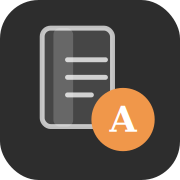
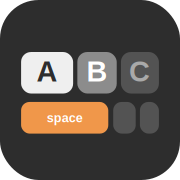
Add files via upload

diff --git a/index.html b/index.html
@@ -44,7 +44,7 @@ html, body { height: 100%; background: var(--bg); font-family: var(--font); colo
 
 /* ── 헤더 (항상 고정) ── */
 .hd {
-  padding: 14px 16px 0;
+  padding: 14px 16px 14px;
   flex-shrink: 0;
   position: sticky;
   top: 0;
@@ -398,14 +398,18 @@ html, body { height: 100%; background: var(--bg); font-family: var(--font); colo
   <div class="hd" id="hd">
     <div class="hd-main-row" onclick="navigate('units')" style="cursor:pointer">
       <div class="hd-icon-wrap">
-        <svg width="22" height="22" viewBox="0 0 22 22" fill="none">
-          <rect x="3" y="2" width="12" height="18" rx="1.5" fill="rgba(255,255,255,0.2)" stroke="rgba(255,255,255,0.8)" stroke-width="1.2"/>
-          <rect x="5" y="2" width="3" height="18" rx="1" fill="rgba(255,255,255,0.25)"/>
-          <line x1="7.5" y1="7" x2="13" y2="7" stroke="rgba(255,255,255,0.85)" stroke-width="1.1" stroke-linecap="round"/>
-          <line x1="7.5" y1="10" x2="13" y2="10" stroke="rgba(255,255,255,0.85)" stroke-width="1.1" stroke-linecap="round"/>
-          <line x1="7.5" y1="13" x2="11" y2="13" stroke="rgba(255,255,255,0.85)" stroke-width="1.1" stroke-linecap="round"/>
-          <circle cx="17" cy="16" r="4.5" fill="#f0974a"/>
-          <text x="17" y="19.5" text-anchor="middle" font-size="6" font-weight="700" fill="#fff" font-family="Georgia,serif">A</text>
+        <svg width="28" height="28" viewBox="0 0 512 512" xmlns="http://www.w3.org/2000/svg">
+          <rect width="512" height="512" rx="110" fill="rgba(255,255,255,0.1)"/>
+          <rect x="60" y="148" width="148" height="118" rx="28" fill="rgba(255,255,255,0.92)"/>
+          <text x="134" y="232" text-anchor="middle" font-size="82" font-weight="700" fill="#2D2D2D" font-family="Arial,sans-serif">A</text>
+          <rect x="220" y="148" width="112" height="118" rx="28" fill="rgba(255,255,255,0.45)"/>
+          <text x="276" y="232" text-anchor="middle" font-size="82" font-weight="700" fill="#ffffff" font-family="Arial,sans-serif">B</text>
+          <rect x="344" y="148" width="108" height="118" rx="28" fill="rgba(255,255,255,0.18)"/>
+          <text x="398" y="232" text-anchor="middle" font-size="82" font-weight="700" fill="rgba(255,255,255,0.5)" font-family="Arial,sans-serif">C</text>
+          <rect x="60" y="290" width="248" height="90" rx="24" fill="#f0974a"/>
+          <text x="184" y="348" text-anchor="middle" font-size="36" font-weight="700" fill="#ffffff" font-family="Arial,sans-serif">space</text>
+          <rect x="322" y="290" width="64" height="90" rx="24" fill="rgba(255,255,255,0.18)"/>
+          <rect x="398" y="290" width="54" height="90" rx="24" fill="rgba(255,255,255,0.18)"/>
         </svg>
       </div>
       <div>
@@ -987,14 +991,17 @@ function showOnboarding() {
     const dots = OB_STEPS.map((_,i) => `<div class="ob-dot ${i===step?'on':''}"></div>`).join('');
     bg.innerHTML = `<div class="ob-sheet">
       <div class="ob-icon">
-        <svg width="32" height="32" viewBox="0 0 32 32" fill="none">
-          <rect x="5" y="3" width="16" height="22" rx="2" fill="rgba(255,255,255,0.2)" stroke="rgba(255,255,255,0.7)" stroke-width="1.3"/>
-          <rect x="7.5" y="3" width="4" height="22" rx="1.5" fill="rgba(255,255,255,0.2)"/>
-          <line x1="11" y1="10" x2="18" y2="10" stroke="rgba(255,255,255,0.8)" stroke-width="1.2" stroke-linecap="round"/>
-          <line x1="11" y1="14" x2="18" y2="14" stroke="rgba(255,255,255,0.8)" stroke-width="1.2" stroke-linecap="round"/>
-          <line x1="11" y1="18" x2="15" y2="18" stroke="rgba(255,255,255,0.8)" stroke-width="1.2" stroke-linecap="round"/>
-          <circle cx="24" cy="23" r="6" fill="#f0974a"/>
-          <text x="24" y="27" text-anchor="middle" font-size="8" font-weight="700" fill="#fff" font-family="Georgia,serif">A</text>
+        <svg width="40" height="40" viewBox="0 0 512 512" xmlns="http://www.w3.org/2000/svg">
+          <rect x="60" y="148" width="148" height="118" rx="28" fill="rgba(255,255,255,0.92)"/>
+          <text x="134" y="232" text-anchor="middle" font-size="82" font-weight="700" fill="#2D2D2D" font-family="Arial,sans-serif">A</text>
+          <rect x="220" y="148" width="112" height="118" rx="28" fill="rgba(255,255,255,0.45)"/>
+          <text x="276" y="232" text-anchor="middle" font-size="82" font-weight="700" fill="#ffffff" font-family="Arial,sans-serif">B</text>
+          <rect x="344" y="148" width="108" height="118" rx="28" fill="rgba(255,255,255,0.18)"/>
+          <text x="398" y="232" text-anchor="middle" font-size="82" font-weight="700" fill="rgba(255,255,255,0.5)" font-family="Arial,sans-serif">C</text>
+          <rect x="60" y="290" width="248" height="90" rx="24" fill="#f0974a"/>
+          <text x="184" y="348" text-anchor="middle" font-size="36" font-weight="700" fill="#ffffff" font-family="Arial,sans-serif">space</text>
+          <rect x="322" y="290" width="64" height="90" rx="24" fill="rgba(255,255,255,0.18)"/>
+          <rect x="398" y="290" width="54" height="90" rx="24" fill="rgba(255,255,255,0.18)"/>
         </svg>
       </div>
       <div class="ob-step">${step+1} / ${OB_STEPS.length}</div>
